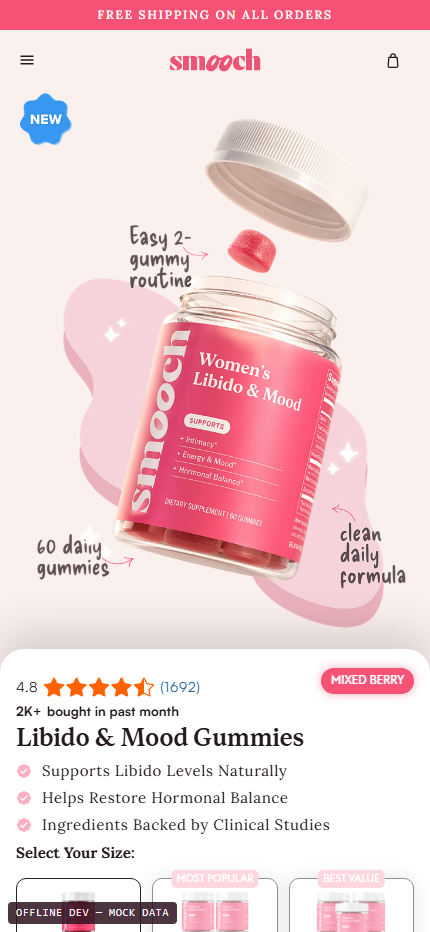
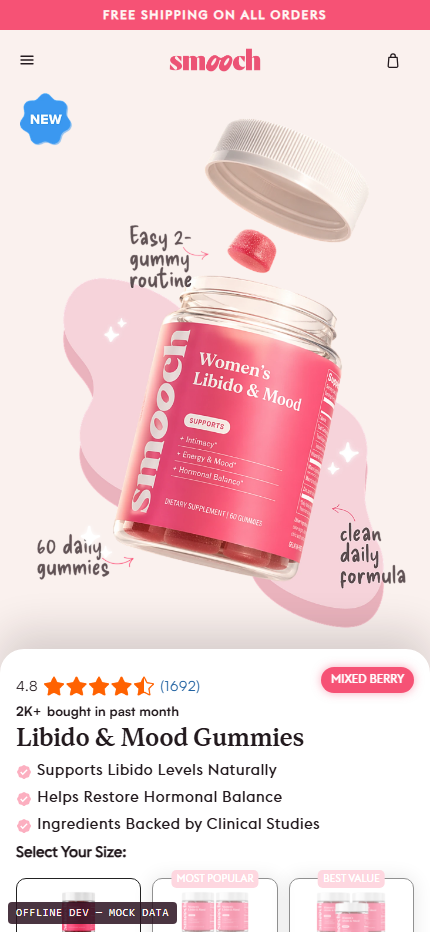
Tighter ATC-to-perks gap (35px -> 12px); perk copy 'Always ships FREE'
Claude-Session: https://claude.ai/code/session_01Vs9BuyV4TkJ1tTR35GWq1d

diff --git a/assets/smooch-product.css b/assets/smooch-product.css
@@ -2088,6 +2088,21 @@ body.smooch-sticky-atc-visible {
   text-shadow: 0 0 3.54px rgba(255, 255, 255, 0.15);
 }
 
+/* Tighter run from the ATC button down to the perk seals: Dawn's
+   product-form bottom margin plus the button's own margin plus the perks'
+   top margin stacked to ~35px of dead space. */
+.smooch-buybox .smooch-buybox__buy .product-form {
+  margin-bottom: 0;
+}
+
+.smooch-buybox .smooch-buybox__buy .product-form__submit {
+  margin-bottom: 0;
+}
+
+.smooch-buybox .smooch-buybox__buy .smooch-buybox__buy-perks {
+  margin-top: 1.2rem;
+}
+
 /* Re-assert the pink -> black hover above the Figma rest-state rule (same
    specificity, so file order alone would let the rest state win). */
 .smooch-buybox .smooch-buybox__buy .product-form__submit:hover,
